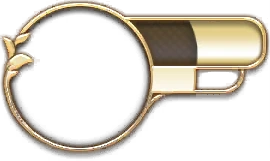
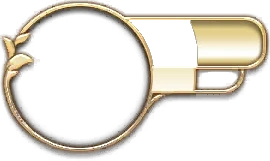
fix: v2's profile has the Discord picture under the frame, in its dark plate's window, not on top of it: the frame's gold rim and the hero ring's edge now cover the picture's edges, as King's Raid's frame covers what's in it. The plate is cut out of WorldMap_UserInfo_Frame into its own picture (prof
Claude-Session: https://claude.ai/code/session_01Byc6RpdFLuQ4AV7JPdCKwU

Changed region(s): [[0.4741, 0.1242, 0.7407, 0.4348]]

diff --git a/src/v2/profile.ts b/src/v2/profile.ts
@@ -23,8 +23,9 @@ export function makeProfile(into: HTMLElement, pick: HeroPick, logIn: () => void
   button.type = 'button';
   button.className = 'v2-profile';
   button.setAttribute('aria-haspopup', 'dialog');
-  button.innerHTML = `<span class="v2-profile-hero"><img alt="" /></span><span class="v2-profile-frame" aria-hidden="true"></span>
-    <span class="v2-profile-plate"><img alt="" /></span><span class="v2-profile-name"></span><span class="v2-profile-server"></span>`;
+  // The hero and the Discord picture under the frame (its ring and its plate's window over them), the words over it.
+  button.innerHTML = `<span class="v2-profile-hero"><img alt="" /></span><span class="v2-profile-plate"><img alt="" /></span>
+    <span class="v2-profile-frame" aria-hidden="true"></span><span class="v2-profile-name"></span><span class="v2-profile-server"></span>`;
   into.append(button);
   const $ = <T extends HTMLElement>(root: HTMLElement, selector: string): T => root.querySelector(selector) as T;
   const hero = $<HTMLImageElement>(button, '.v2-profile-hero img');

diff --git a/src/v2/v2.css b/src/v2/v2.css
@@ -562,14 +562,16 @@ html[data-shell='v2'] body {
   object-fit: cover;
 }
 
+/* The frame's dark plate (cut out of it by kr-lobby-ui.py, under it here), the Discord picture on it: the frame's gold
+   rim and the ring's edge cover the picture's edges. */
 .v2-profile-plate {
   position: absolute;
-  left: 133px;
-  top: 21px;
-  width: 62px;
-  height: 40px;
+  left: 128px;
+  top: 19px;
+  width: 70px;
+  height: 48px;
   overflow: hidden;
-  border-radius: 4px;
+  background: url('/kr/ui/lobby/profile-plate.webp');
 }
 
 .v2-profile-plate img {
